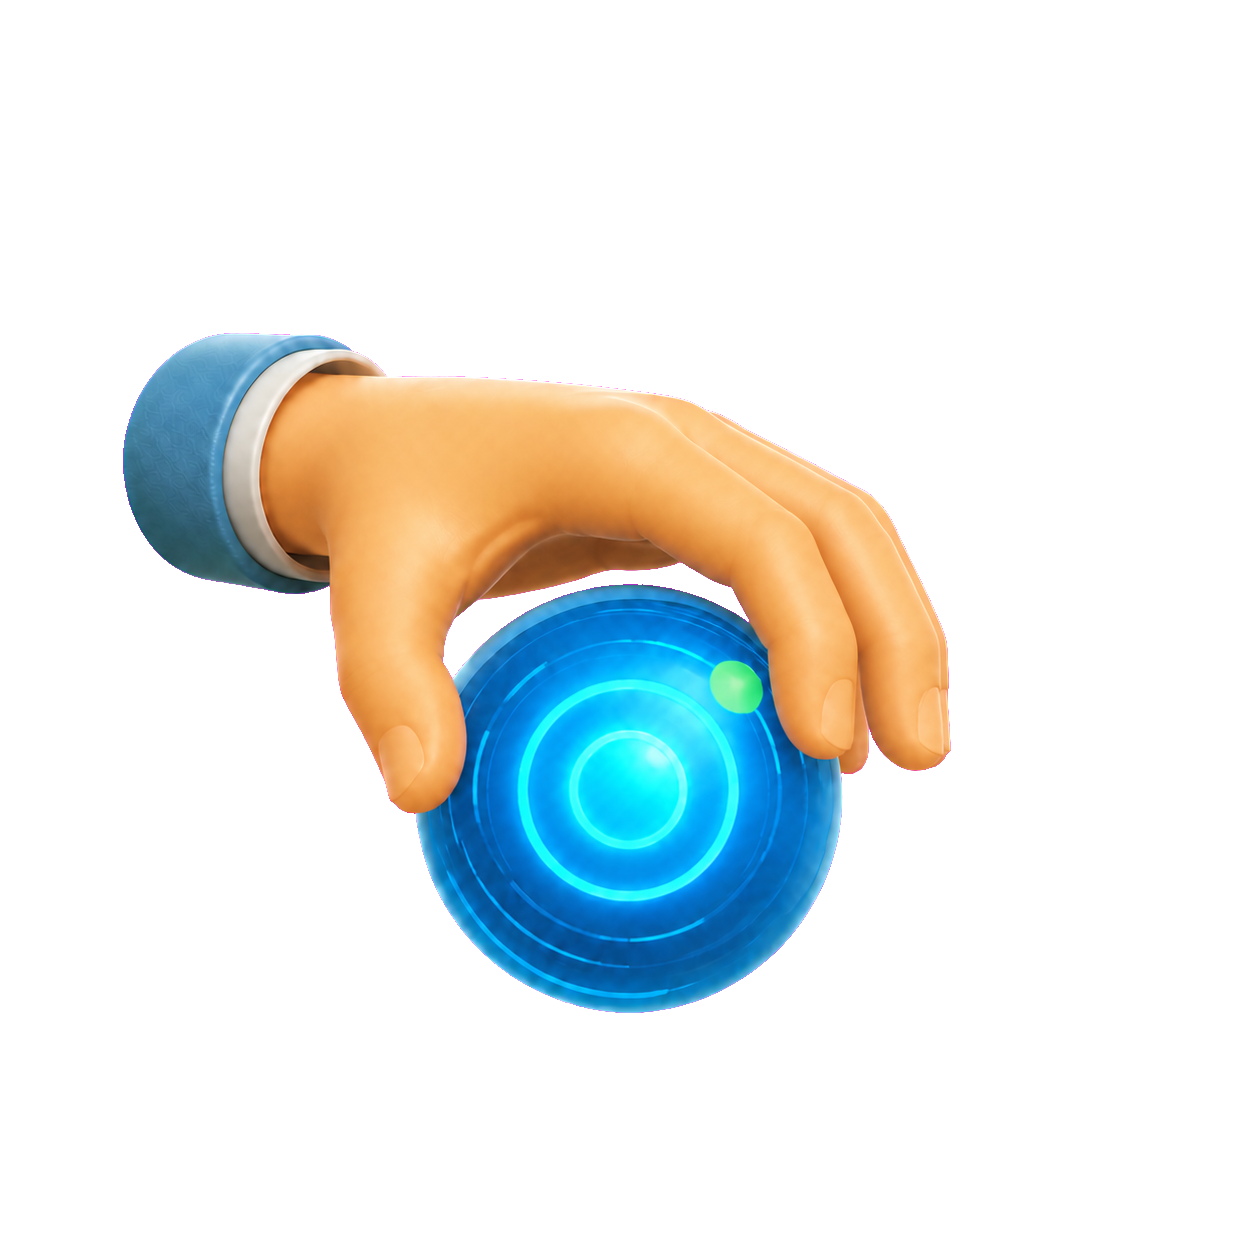
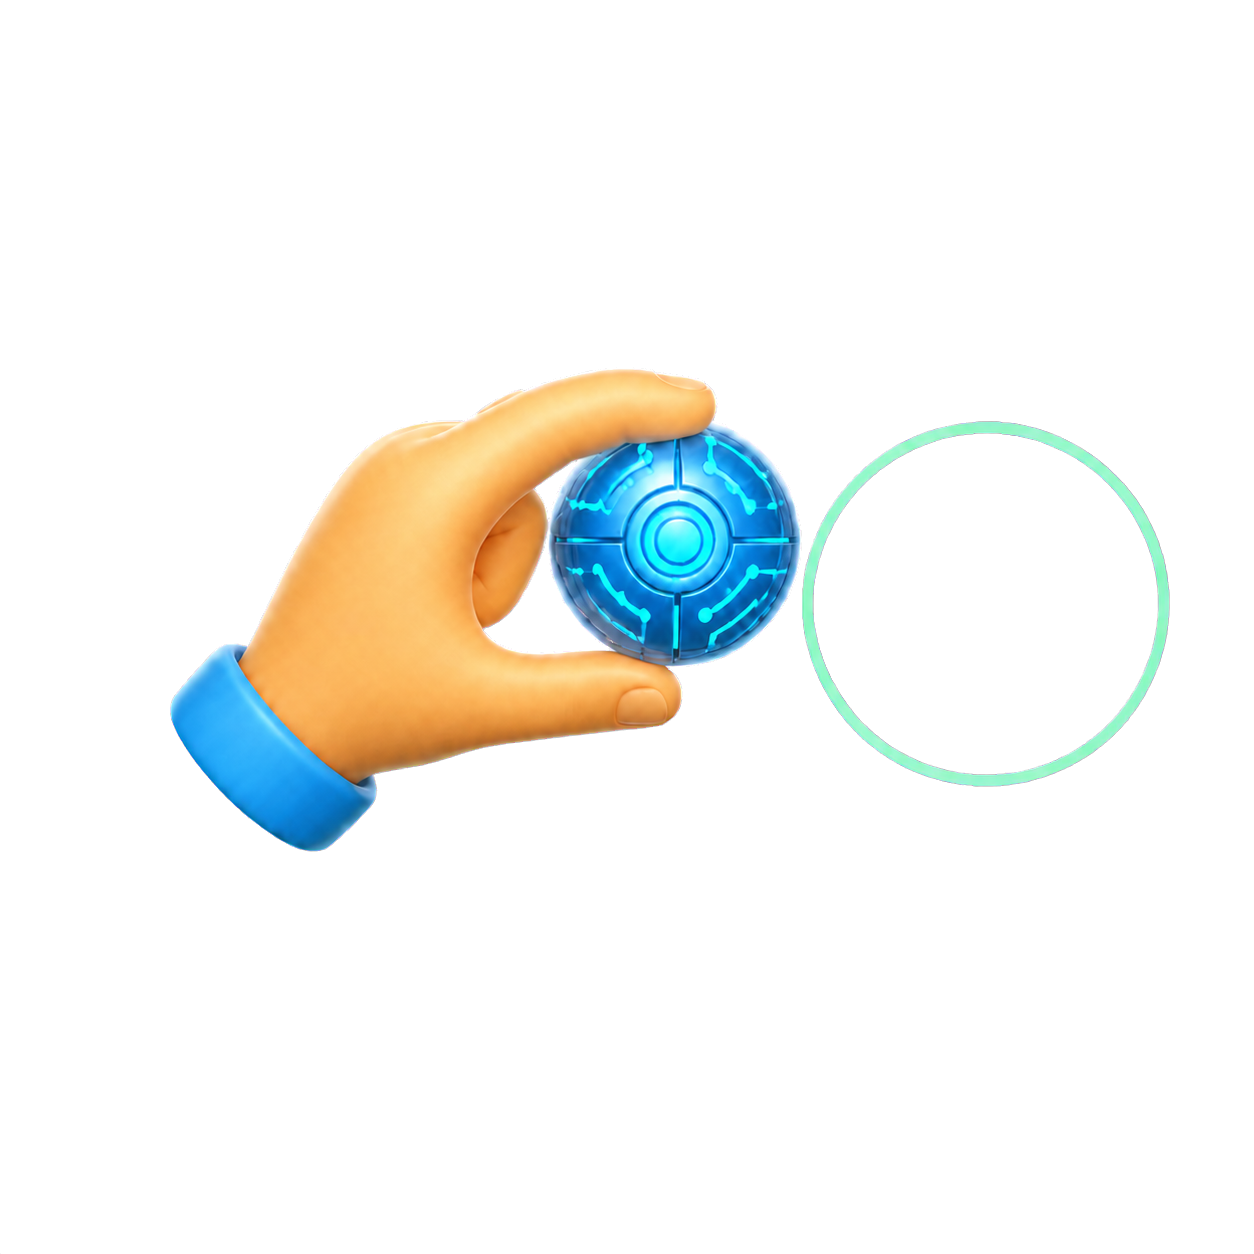
replace grab tutorial with two-finger drop sprite

diff --git a/src/App.tsx b/src/App.tsx
@@ -655,7 +655,7 @@ function Intro({
                     <li><b>01</b><span>Đọc công việc</span><small>Quan sát nội dung trên quả cầu</small></li>
                     <li className="briefing-step-grab">
                       <b>02</b><span>Chụm tay để gắp</span><small>Hoặc giữ và kéo bằng chuột</small>
-                      <span className="briefing-grab-demo" role="img" aria-label="Minh họa bàn tay chụm lại, gắp và nâng quả cầu">
+                      <span className="briefing-grab-demo" role="img" aria-label="Minh họa ngón cái và ngón trỏ gắp, kéo rồi thả quả cầu vào cổng AI">
                         <img className="briefing-grab-animated" src="/assets/tutorial/grab-sequence/grab-tutorial.webp" alt="" />
                         <img className="briefing-grab-static" src="/assets/tutorial/grab-sequence/grab-frame-04.png" alt="" />
                       </span>

diff --git a/scripts/build_grab_animation.py b/scripts/build_grab_animation.py
@@ -1,11 +1,11 @@
-"""Repair the difficult chroma-key frame and build the grab tutorial animation."""
+"""Compose and build the transparent two-finger grab tutorial animation."""
 
 from __future__ import annotations
 
 import argparse
 from pathlib import Path
 
-from PIL import Image
+from PIL import Image, ImageDraw, ImageChops
 
 
 def repair_magenta_key(source: Path, output: Path) -> None:
@@ -38,7 +38,137 @@ def validate_alpha(frame: Image.Image, name: str) -> None:
         raise ValueError(f"{name} contains no visible subject")
 
 
+def find_colored_bounds(frame: Image.Image, kind: str) -> tuple[int, int, int, int]:
+    pixels = frame.get_flattened_data()
+    if kind == "mint":
+        values = [
+            255 if alpha > 80 and green > 165 and green > red * 1.12 and green > blue * 1.03 else 0
+            for red, green, blue, alpha in pixels
+        ]
+    else:
+        mint_bounds = find_colored_bounds(frame, "mint")
+        values = []
+        for index, (red, green, blue, alpha) in enumerate(pixels):
+            x = index % frame.width
+            inside_orb_lane = frame.width * 0.30 < x < mint_bounds[0] - 12
+            values.append(
+                255
+                if inside_orb_lane and alpha > 80 and blue > 115 and blue > red * 1.18 and green > red * 1.08
+                else 0
+            )
+    mask = Image.new("L", frame.size)
+    mask.putdata(values)
+    bounds = mask.getbbox()
+    if not bounds:
+        raise ValueError(f"Could not locate {kind} sprite feature")
+    return bounds
+
+
+def without_box(frame: Image.Image, box: tuple[int, int, int, int]) -> Image.Image:
+    result = frame.copy()
+    result.paste((0, 0, 0, 0), box)
+    return result
+
+
+def compose_release_frames(frames_dir: Path) -> None:
+    """Derive the last two poses from the same hand/orb art to avoid visual jumps."""
+    open_pose = Image.open(frames_dir / "grab-frame-01.png").convert("RGBA")
+    drag_pose = Image.open(frames_dir / "grab-frame-03.png").convert("RGBA")
+
+    ring_bounds = find_colored_bounds(drag_pose, "mint")
+    ring_box = (
+        max(0, ring_bounds[0] - 8),
+        max(0, ring_bounds[1] - 8),
+        min(drag_pose.width, ring_bounds[2] + 8),
+        min(drag_pose.height, ring_bounds[3] + 8),
+    )
+    ring_layer = Image.new("RGBA", drag_pose.size)
+    ring_layer.alpha_composite(drag_pose.crop(ring_box), (ring_box[0], ring_box[1]))
+    moving_layer = without_box(drag_pose, ring_box)
+    orb_bounds = find_colored_bounds(drag_pose, "orb")
+    orb_center = ((orb_bounds[0] + orb_bounds[2]) / 2, (orb_bounds[1] + orb_bounds[3]) / 2)
+    ring_center = ((ring_bounds[0] + ring_bounds[2]) / 2, (ring_bounds[1] + ring_bounds[3]) / 2)
+    shift = (round(ring_center[0] - orb_center[0]), round(ring_center[1] - orb_center[1]))
+    placed_pose = Image.new("RGBA", drag_pose.size)
+    placed_pose.alpha_composite(ring_layer)
+    placed_pose.alpha_composite(moving_layer, shift)
+    placed_pose.save(frames_dir / "grab-frame-04.png", optimize=True)
+
+    open_ring_bounds = find_colored_bounds(open_pose, "mint")
+    open_ring_box = (
+        max(0, open_ring_bounds[0] - 8),
+        max(0, open_ring_bounds[1] - 8),
+        min(open_pose.width, open_ring_bounds[2] + 8),
+        min(open_pose.height, open_ring_bounds[3] + 8),
+    )
+    released_pose = without_box(open_pose, open_ring_box)
+    open_orb_bounds = find_colored_bounds(open_pose, "orb")
+    orb_box = (
+        open_orb_bounds[0] - 4,
+        open_orb_bounds[1] - 4,
+        open_orb_bounds[2] + 4,
+        open_orb_bounds[3] + 4,
+    )
+    orb_cutout = open_pose.crop(orb_box)
+    ellipse_mask = Image.new("L", orb_cutout.size)
+    ImageDraw.Draw(ellipse_mask).ellipse((0, 0, orb_cutout.width - 1, orb_cutout.height - 1), fill=255)
+    orb_cutout.putalpha(ImageChops.multiply(orb_cutout.getchannel("A"), ellipse_mask))
+    clear_mask = Image.new("L", open_pose.size)
+    ImageDraw.Draw(clear_mask).ellipse(orb_box, fill=255)
+    released_alpha = ImageChops.subtract(released_pose.getchannel("A"), clear_mask)
+    released_pose.putalpha(released_alpha)
+
+    pulse_layer = Image.new("RGBA", open_pose.size)
+    pulse_box = tuple(value + offset for value, offset in zip(open_ring_bounds, (-34, -34, 34, 34)))
+    ImageDraw.Draw(pulse_layer).ellipse(pulse_box, outline=(145, 255, 198, 215), width=9)
+    final_pose = Image.new("RGBA", open_pose.size)
+    final_pose.alpha_composite(pulse_layer)
+    final_pose.alpha_composite(open_pose.crop(open_ring_box), (open_ring_box[0], open_ring_box[1]))
+    final_pose.alpha_composite(released_pose)
+    open_ring_center = (
+        (open_ring_bounds[0] + open_ring_bounds[2]) / 2,
+        (open_ring_bounds[1] + open_ring_bounds[3]) / 2,
+    )
+    orb_cutout_center = ((orb_box[0] + orb_box[2]) / 2, (orb_box[1] + orb_box[3]) / 2)
+    orb_offset = (
+        round(open_ring_center[0] - orb_cutout_center[0] + orb_box[0]),
+        round(open_ring_center[1] - orb_cutout_center[1] + orb_box[1]),
+    )
+    final_pose.alpha_composite(orb_cutout, orb_offset)
+    final_pose.save(frames_dir / "grab-frame-05.png", optimize=True)
+
+
+def align_to_drop_zone(frame: Image.Image) -> Image.Image:
+    """Place the mint target at a fixed point while preserving authored motion."""
+    mask = Image.new("L", frame.size)
+    mask.putdata(
+        [
+            255 if alpha > 80 and green > 165 and green > red * 1.12 and green > blue * 1.03 else 0
+            for red, green, blue, alpha in frame.get_flattened_data()
+        ]
+    )
+    target_bounds = mask.getbbox()
+    if not target_bounds:
+        raise ValueError("Could not locate the mint drop-zone ring")
+
+    target_center_x = (target_bounds[0] + target_bounds[2]) / 2
+    target_center_y = (target_bounds[1] + target_bounds[3]) / 2
+    scale = 450 / frame.width
+    resized = frame.resize(
+        (round(frame.width * scale), round(frame.height * scale)),
+        Image.Resampling.LANCZOS,
+    )
+    canvas = Image.new("RGBA", (480, 480))
+    offset = (
+        round(360 - target_center_x * scale),
+        round(240 - target_center_y * scale),
+    )
+    canvas.alpha_composite(resized, offset)
+    return canvas
+
+
 def build_animation(frames_dir: Path, output: Path) -> None:
+    compose_release_frames(frames_dir)
     source_frames = []
     for index in range(1, 6):
         path = frames_dir / f"grab-frame-{index:02d}.png"
@@ -46,24 +176,12 @@ def build_animation(frames_dir: Path, output: Path) -> None:
         validate_alpha(frame, path.name)
         source_frames.append(frame)
 
-    bounds = [frame.getchannel("A").getbbox() for frame in source_frames]
-    left = max(0, min(bound[0] for bound in bounds if bound) - 28)
-    top = max(0, min(bound[1] for bound in bounds if bound) - 28)
-    right = min(source_frames[0].width, max(bound[2] for bound in bounds if bound) + 28)
-    bottom = min(source_frames[0].height, max(bound[3] for bound in bounds if bound) + 28)
-    side = max(right - left, bottom - top)
-    center_x, center_y = (left + right) // 2, (top + bottom) // 2
-    square = (
-        max(0, center_x - side // 2),
-        max(0, center_y - side // 2),
-        min(source_frames[0].width, center_x + (side + 1) // 2),
-        min(source_frames[0].height, center_y + (side + 1) // 2),
-    )
-    source_frames = [frame.crop(square).resize((480, 480), Image.Resampling.LANCZOS) for frame in source_frames]
+    source_frames = [align_to_drop_zone(frame) for frame in source_frames]
 
-    # Five authored poses, then a short reverse path for a seamless loop.
-    sequence = source_frames + [source_frames[3], source_frames[2], source_frames[1]]
-    durations = [280, 180, 180, 300, 620, 180, 170, 240]
+    # Keep the tutorial semantically one-way: open, pinch, drag, place, release.
+    # The final success pose pauses before the loop restarts at the open pose.
+    sequence = source_frames
+    durations = [360, 240, 260, 300, 900]
     sequence[0].save(
         output,
         save_all=True,
